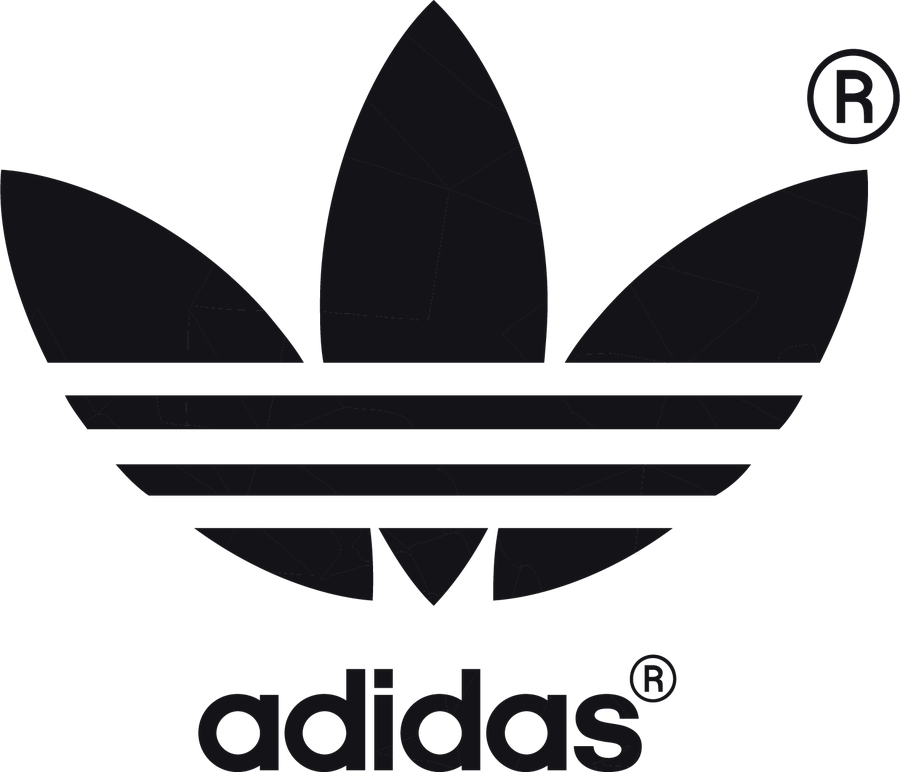
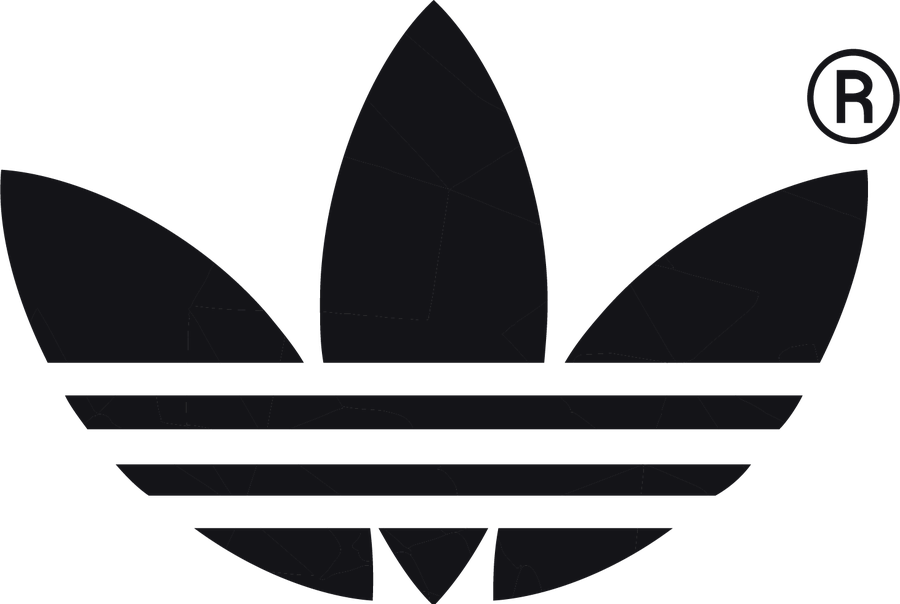
Add files via upload

diff --git a/caso-sneaker-supremacy.html b/caso-sneaker-supremacy.html
@@ -124,14 +124,25 @@ strong{font-weight:700}
    Los dos archivos son siluetas del mismo negro, asi que el par se lee como
    una pareja y no como dos recortes distintos. Van en blanco por filtro:
    la banda es de color y una silueta negra encima se perderia. */
-.brand .top{display:flex;align-items:center;justify-content:space-between;gap:16px}
+/* min-height fija: por encima de 720px las dos fichas van lado a lado y si
+   una banda crece con su logo, quedan desalineadas. Asi el alto lo manda la
+   regla, no la imagen. */
+.brand .top{display:flex;align-items:center;justify-content:space-between;gap:16px;
+  min-height:84px}
 .brand .top .tx{min-width:0}
-.brand .lg{flex:0 0 auto;height:38px;width:auto;object-fit:contain;
+.brand .lg{flex:0 0 auto;width:auto;object-fit:contain;
   filter:brightness(0) invert(1);opacity:.95}
-.brand.a .lg{height:46px}   /* el trebol es mas alto que ancho, se compensa */
+/* El swoosh es una curva fina y muy apaisada (2.7:1); el trebol es macizo y
+   casi cuadrado (1.5:1). A igual altura el trebol se ve diminuto al lado del
+   otro, asi que se igualan por la TINTA que pinta cada uno, no por el alto.
+   Al trebol tambien se le quito la palabra "adidas" de debajo: con ella, la
+   parte que se reconoce quedaba reducida a la mitad de la imagen. */
+.brand.n .lg{height:38px}
+.brand.a .lg{height:50px}
 @media(max-width:520px){
-  .brand .lg{height:30px}
-  .brand.a .lg{height:36px}
+  .brand .top{min-height:70px}
+  .brand.n .lg{height:30px}
+  .brand.a .lg{height:40px}
 }
 .brand ul{list-style:none}
 .brand li{font-size:15px;line-height:1.5;padding-left:19px;position:relative;margin-bottom:10px;
